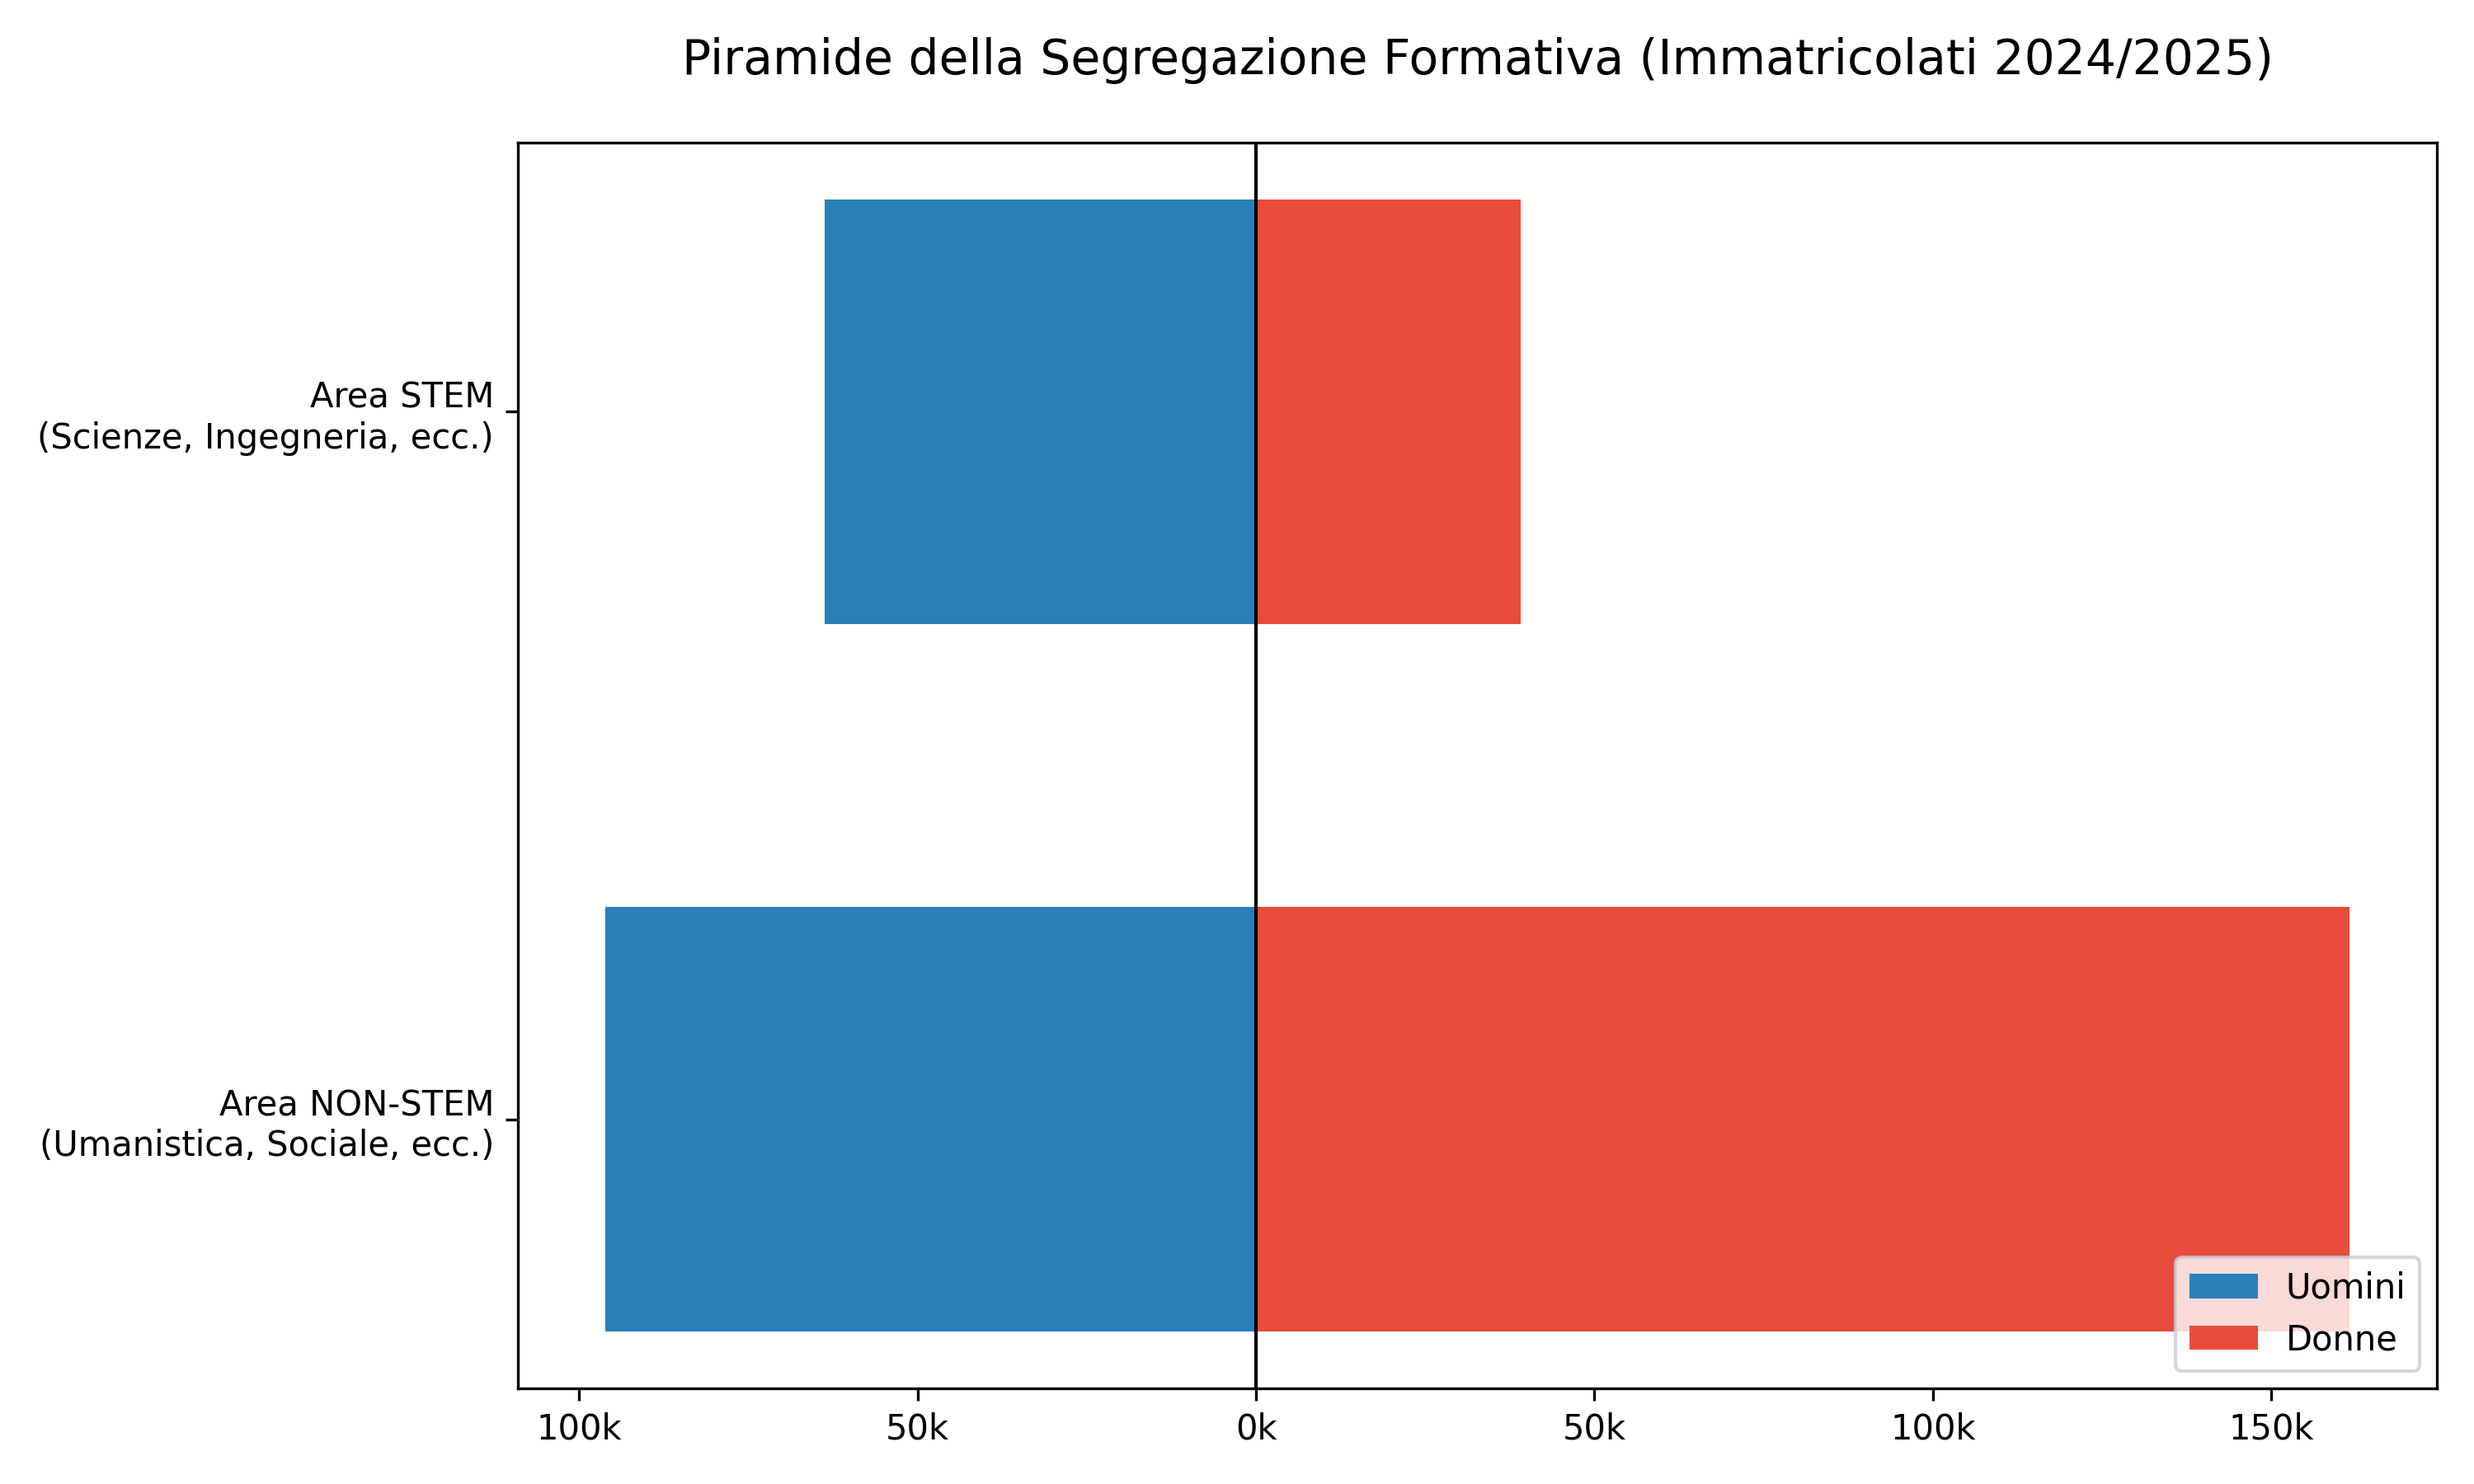
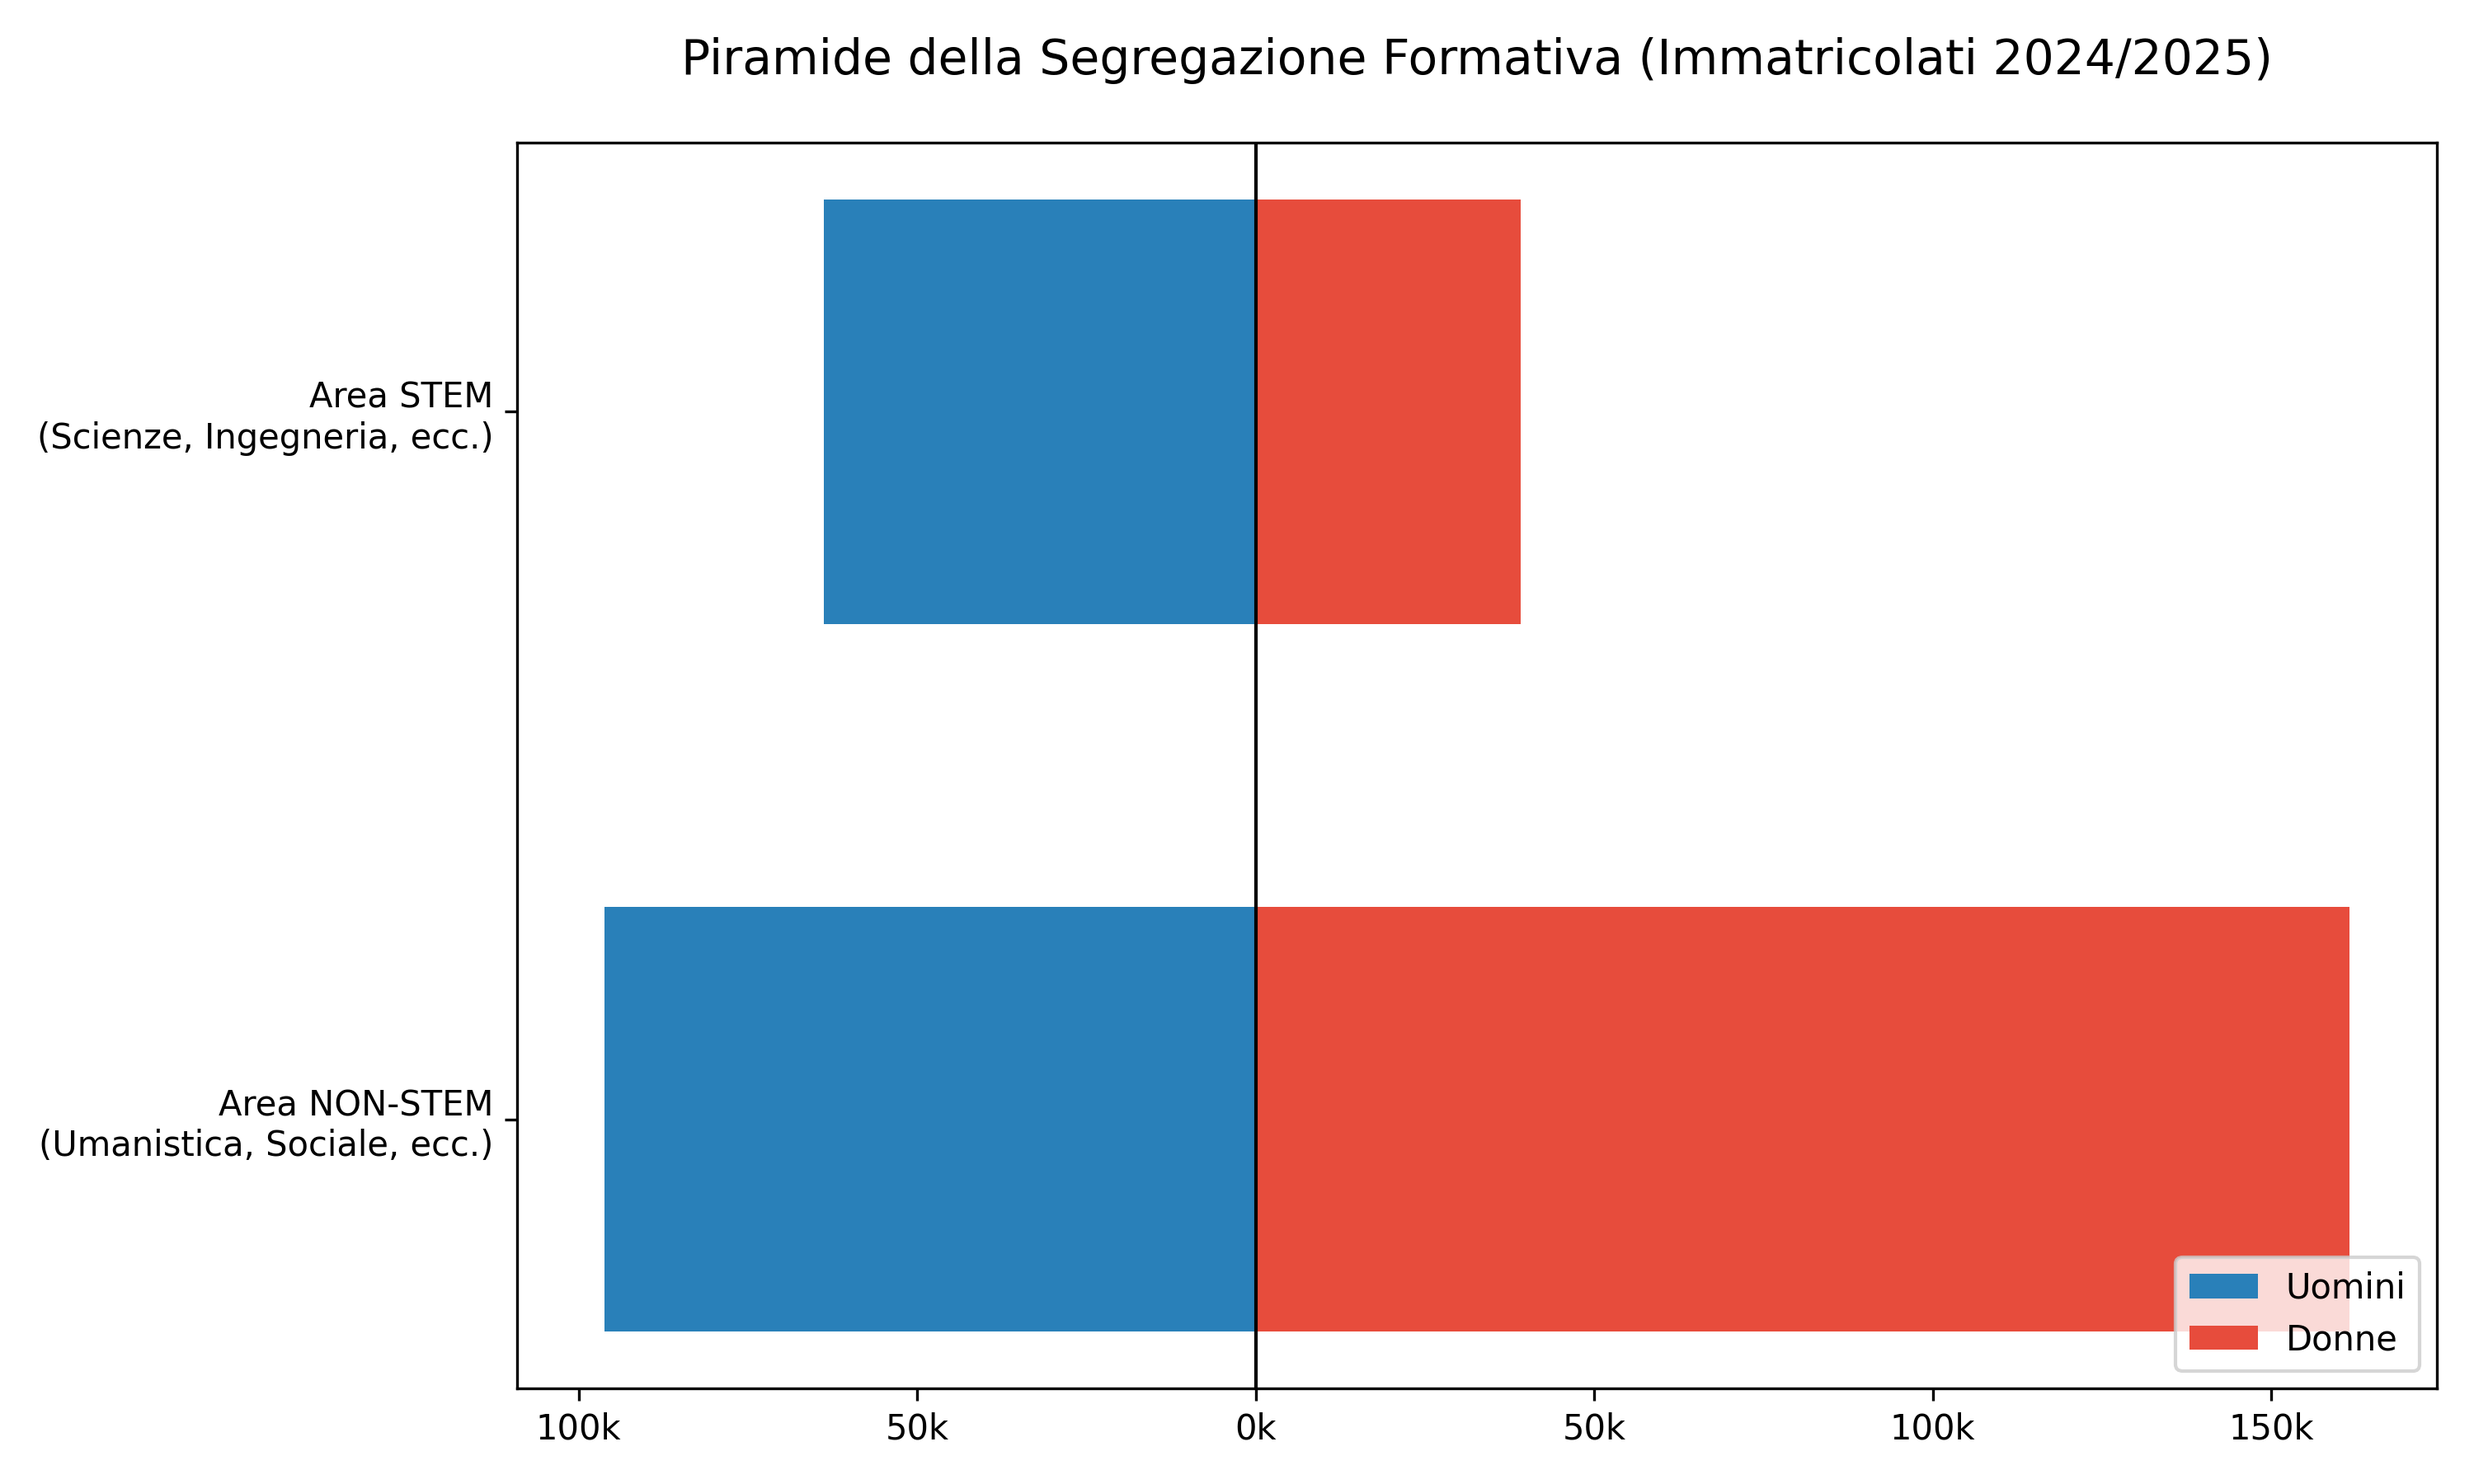
rimozione mappa

diff --git a/src/analisi_ingresso.py b/src/analisi_ingresso.py
@@ -100,67 +100,56 @@ plt.savefig('piramide_stem.png', dpi=300)
 print("-> Immagine salvata come 'piramide_stem.png'")
 
 # ==========================================
-# 4. GRAFICO 2 E TABELLA: MAPPA GEOGRAFICA DEL GAP
+# 4. GRAFICO 2: CLASSIFICA REGIONALE (Il Paradosso Meridionale)
 # ==========================================
-print("\nElaborazione Dati Regionali...")
+print("\nElaborazione Dati Regionali e Grafico a Barre...")
 
-# Per la mappa escludiamo il "TOTALE", le voci vuote e gli Atenei Telematici/Estero
+# Escludiamo il "TOTALE", le voci vuote e gli Atenei Telematici/Estero
 df_regioni = df_base[
     (df_base['AteneoCOD'] != 'TTTTT') & 
     (df_base['AteneoREGIONE'].notna()) &
     (~df_base['AteneoREGIONE'].isin(['TELEMATICI', 'ESTERO']))
 ]
 
-# Raggruppiamo i dati per Regione e calcoliamo quante donne sono nelle STEM
+# Calcoliamo le percentuali
 tab_reg = df_regioni.groupby(['AteneoREGIONE', 'Genere', 'is_STEM'])['IMM'].sum().reset_index()
-
-# Isoliamo i dati STEM
 stem_reg = tab_reg[tab_reg['is_STEM'] == True]
 stem_pivot = stem_reg.pivot(index='AteneoREGIONE', columns='Genere', values='IMM').fillna(0)
 stem_pivot['Totale_STEM'] = stem_pivot['F'] + stem_pivot['M']
 stem_pivot['Percentuale_Donne_STEM'] = (stem_pivot['F'] / stem_pivot['Totale_STEM']) * 100
 stem_pivot['Percentuale_Uomini_STEM'] = (stem_pivot['M'] / stem_pivot['Totale_STEM']) * 100
 
-# --- Generazione File CSV Regionale (ORA MESSO NEL POSTO GIUSTO) ---
+# Salviamo il file CSV
 output_df = stem_pivot[['Totale_STEM', 'F', 'M', 'Percentuale_Donne_STEM', 'Percentuale_Uomini_STEM']].copy()
 output_df = output_df.sort_values('Percentuale_Donne_STEM', ascending=False).round(2)
 output_df.to_csv('percentuali_regionali_stem.csv', sep=';')
 print("-> File 'percentuali_regionali_stem.csv' generato con successo!")
 
-# --- Generazione Mappa ---
-print("Generazione Mappa dell'Italia in corso...")
-stem_pivot = stem_pivot.reset_index()
+# --- CREAZIONE DEL GRAFICO A BARRE ---
+# Ordiniamo in modo crescente per avere il valore più alto in cima al grafico
+df_plot = output_df.sort_values('Percentuale_Donne_STEM', ascending=True)
 
-# Correggiamo i nomi delle regioni del MUR per farli combaciare col GeoJSON internazionale
-correzioni_regioni = {
-    'Trentino Alto Adige': 'Trentino-Alto Adige/Südtirol',
-    'Friuli Venezia Giulia': 'Friuli-Venezia Giulia',
-    'Emilia Romagna': 'Emilia-Romagna',
-    "Valle d'Aosta": "Valle d'Aosta/Vallée d'Aoste"
-}
-stem_pivot['AteneoREGIONE'] = stem_pivot['AteneoREGIONE'].replace(correzioni_regioni)
+fig, ax = plt.subplots(figsize=(10, 8))
 
-# Scarichiamo i confini dell'Italia (GeoJSON)
-url_geojson = 'https://raw.githubusercontent.com/openpolis/geojson-italy/master/geojson/limits_IT_regions.geojson'
-italy_geojson = requests.get(url_geojson).json()
+# Disegniamo le barre
+barre = ax.barh(df_plot.index, df_plot['Percentuale_Donne_STEM'], color='#8e44ad', height=0.7)
 
-# Creiamo la mappa interattiva
-fig_map = px.choropleth_mapbox(
-    stem_pivot,
-    geojson=italy_geojson,
-    locations='AteneoREGIONE',
-    featureidkey='properties.reg_name',
-    color='Percentuale_Donne_STEM',
-    color_continuous_scale="Reds_r", # Più è rosso intenso, più mancano donne
-    range_color=[25, 45], # Il range percentuale medio
-    mapbox_style="carto-positron",
-    zoom=4.5, 
-    center={"lat": 41.8719, "lon": 12.5674},
-    opacity=0.7,
-    labels={'Percentuale_Donne_STEM': '% Donne in STEM'},
-    title="Gap di Genere nelle STEM per Regione (Meno è rosso scuro, peggio è)"
-)
+# Calcoliamo e disegniamo la linea della Media Nazionale (38%)
+media_nazionale = (f_stem / (f_stem + m_stem)) * 100
+ax.axvline(media_nazionale, color='#e74c3c', linestyle='--', linewidth=2, label=f'Media Nazionale ({media_nazionale:.1f}%)')
 
-# Apriamo la mappa nel browser
-print("-> Apertura mappa nel browser. Puoi interagire con il mouse!")
-fig_map.show()
+# Aggiungiamo i numeretti esatti alla fine di ogni barra
+for barra in barre:
+    larghezza = barra.get_width()
+    ax.text(larghezza + 0.5, barra.get_y() + barra.get_height()/2, f'{larghezza:.1f}%', 
+            ha='left', va='center', fontsize=10)
+
+ax.set_title('Percentuale di Donne Iscritte in STEM per Regione (2024/2025)', fontsize=14, pad=20)
+ax.set_xlabel('% Donne su Totale Iscritti STEM')
+ax.set_xlim(0, 55) # Diamo spazio per non far tagliare i numeri a destra
+ax.legend(loc='lower right')
+ax.grid(axis='x', linestyle='--', alpha=0.5)
+
+plt.tight_layout()
+plt.savefig('barre_regionali_stem.png', dpi=300)
+print("-> Immagine salvata come 'barre_regionali_stem.png'")
